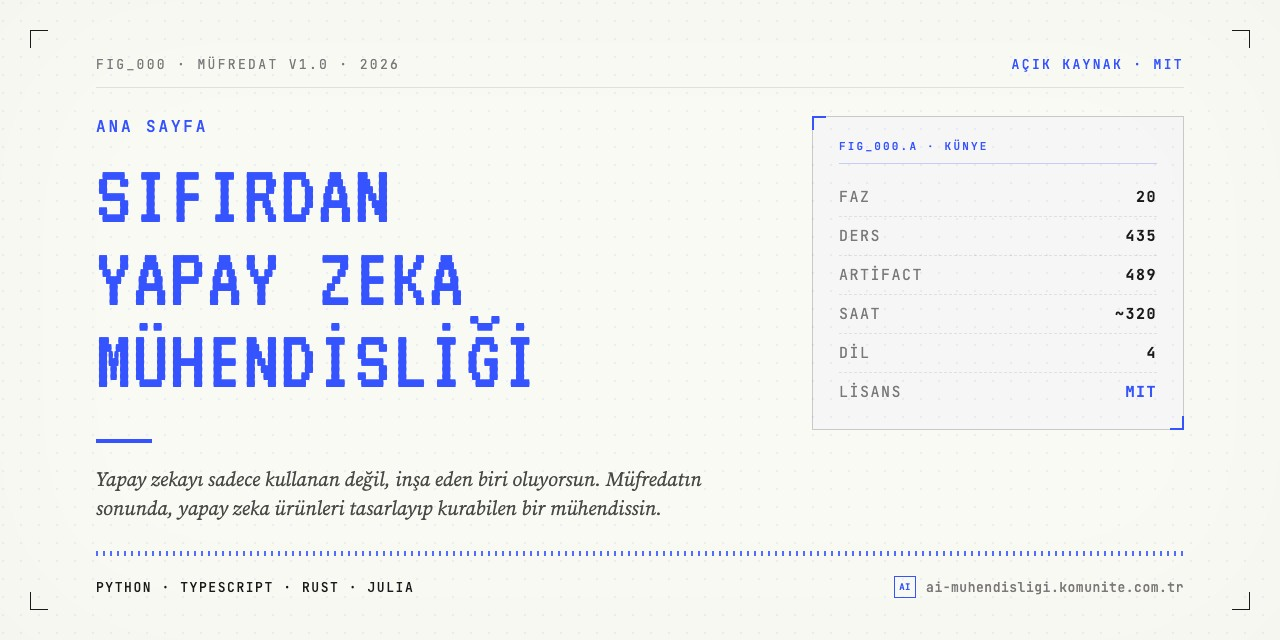
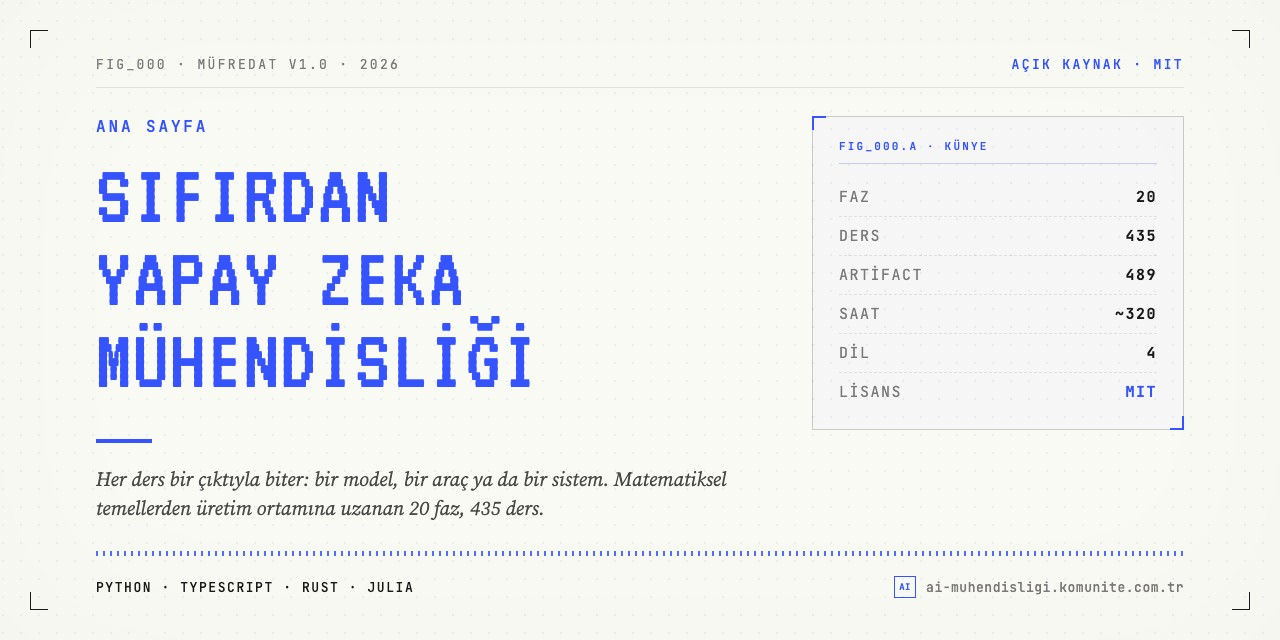
copy(home): factual outcome-focused tagline; drop attribution paragraph
Previous version overpromised ("inşa eden biri oluyorsun ... bir
mühendissin") and the attribution line read as marketing rather
than credit. Replaced the tagline with a restrained description
of the curriculum's output orientation and removed the
attribution paragraph entirely.

Tagline (site/index.html + scripts/build_og.py home page):
- After: "Her ders bir çıktıyla biter: bir model, bir araç ya da
  bir sistem. Matematiksel temellerden üretim ortamına uzanan
  20 faz, 435 ders."

  Describes a structural fact about the curriculum (each lesson
  ships a usable artifact) and the scope (math foundations →
  production), without claiming what the learner becomes.

Attribution paragraph (site/index.html):
- Removed. Upstream credit and licensing remain visible elsewhere
  (README.md, FORKING.md, ROADMAP.md, site footer, etc.).

Regenerated site/og/home.jpg with the new tagline.

Changed region(s): [[0.0625, 0.7188, 0.5625, 0.8125]]

diff --git a/site/index.html b/site/index.html
@@ -725,8 +725,7 @@
         <span class="right">açık kaynak · MIT</span>
       </div>
       <h1 class="manual-title">Sıfırdan<br>Yapay Zeka<br>Mühendisliği</h1>
-      <p class="manual-tagline reveal">Yapay zekayı sadece kullanan değil, inşa eden biri oluyorsun. Müfredatın sonunda, yapay zeka ürünleri tasarlayıp kurabilen bir mühendissin.</p>
-      <p class="manual-attribution reveal" style="--stagger-delay: 80ms;">Orijinali Rohit Ghumare ve katkıda bulunanlar geliştirdi. Türkçe uyarlamayı Komünite bağımsız sürdürüyor. MIT lisanslı, tamamen açık kaynak.</p>
+      <p class="manual-tagline reveal">Her ders bir çıktıyla biter: bir model, bir araç ya da bir sistem. Matematiksel temellerden üretim ortamına uzanan 20 faz, 435 ders.</p>
       <div class="ascii-rule" style="margin-top:48px;"></div>
     </section>
 

diff --git a/scripts/build_og.py b/scripts/build_og.py
@@ -49,7 +49,7 @@ STATIC_PAGES = [
         "slug": "home",
         "eyebrow": "ANA SAYFA",
         "title": "Sıfırdan\nYapay Zeka\nMühendisliği",
-        "tagline": "Yapay zekayı sadece kullanan değil, inşa eden biri oluyorsun. Müfredatın sonunda, yapay zeka ürünleri tasarlayıp kurabilen bir mühendissin.",
+        "tagline": "Her ders bir çıktıyla biter: bir model, bir araç ya da bir sistem. Matematiksel temellerden üretim ortamına uzanan 20 faz, 435 ders.",
         "meta_left": "FIG_000 · MÜFREDAT V1.0 · 2026",
         "meta_right": "AÇIK KAYNAK · MIT",
         "footer_left": "PYTHON · TYPESCRIPT · RUST · JULIA",